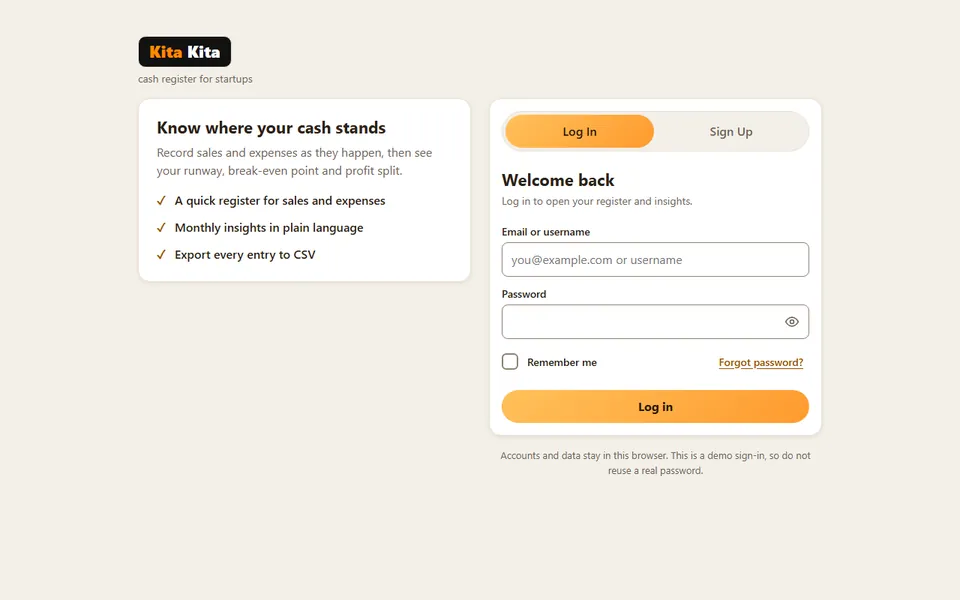
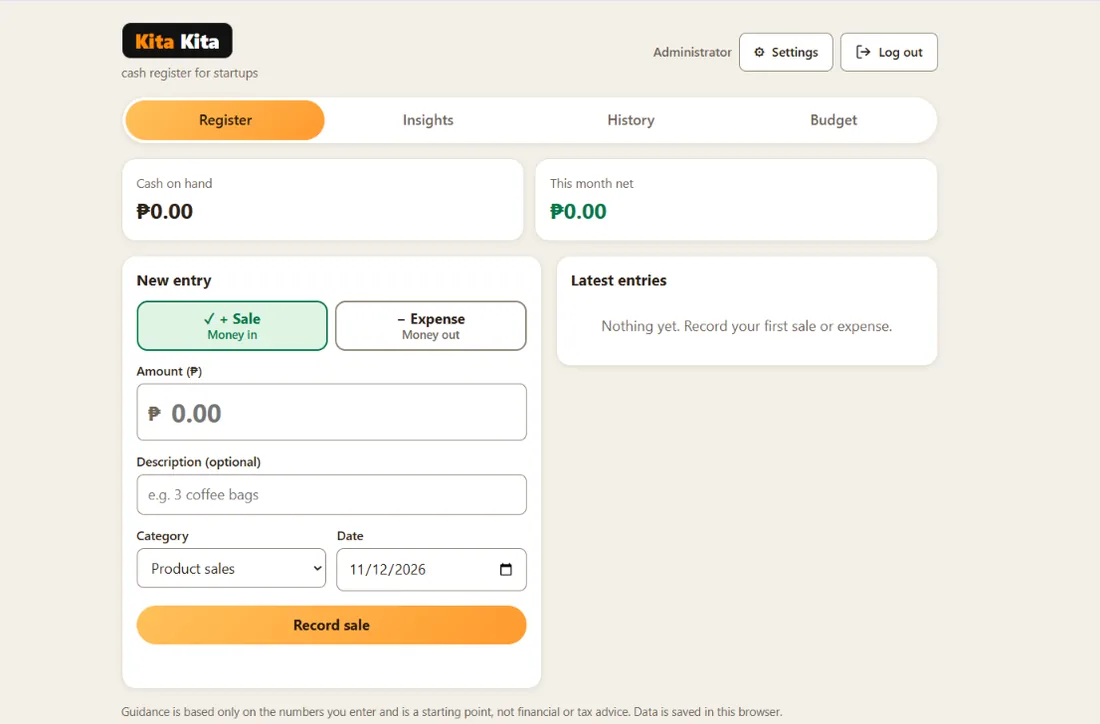
Use the register page as the Kita Kita screenshot

diff --git a/index.html b/index.html
@@ -404,8 +404,8 @@
             </div>
           </article>
           <article class="island-card" data-category="web">
-            <img src="Portfolio/projects/kita-kita.webp" alt="Kita Kita log-in screen beside a short list of what the app does" class="island-shot"
-              width="960" height="600" loading="lazy" decoding="async">
+            <img src="Portfolio/projects/kita-kita.webp" alt="Kita Kita register page with cash on hand, this month’s net and a form to record a sale or expense" class="island-shot"
+              width="1100" height="724" loading="lazy" decoding="async">
             <h3>Kita Kita — Cash Register for Startups</h3>
             <p>A cash register web app for small businesses. Owners record sales and expenses, then get insights like
               net profit, profit margin, cash runway and break-even point, with plain-language tips based on their own
